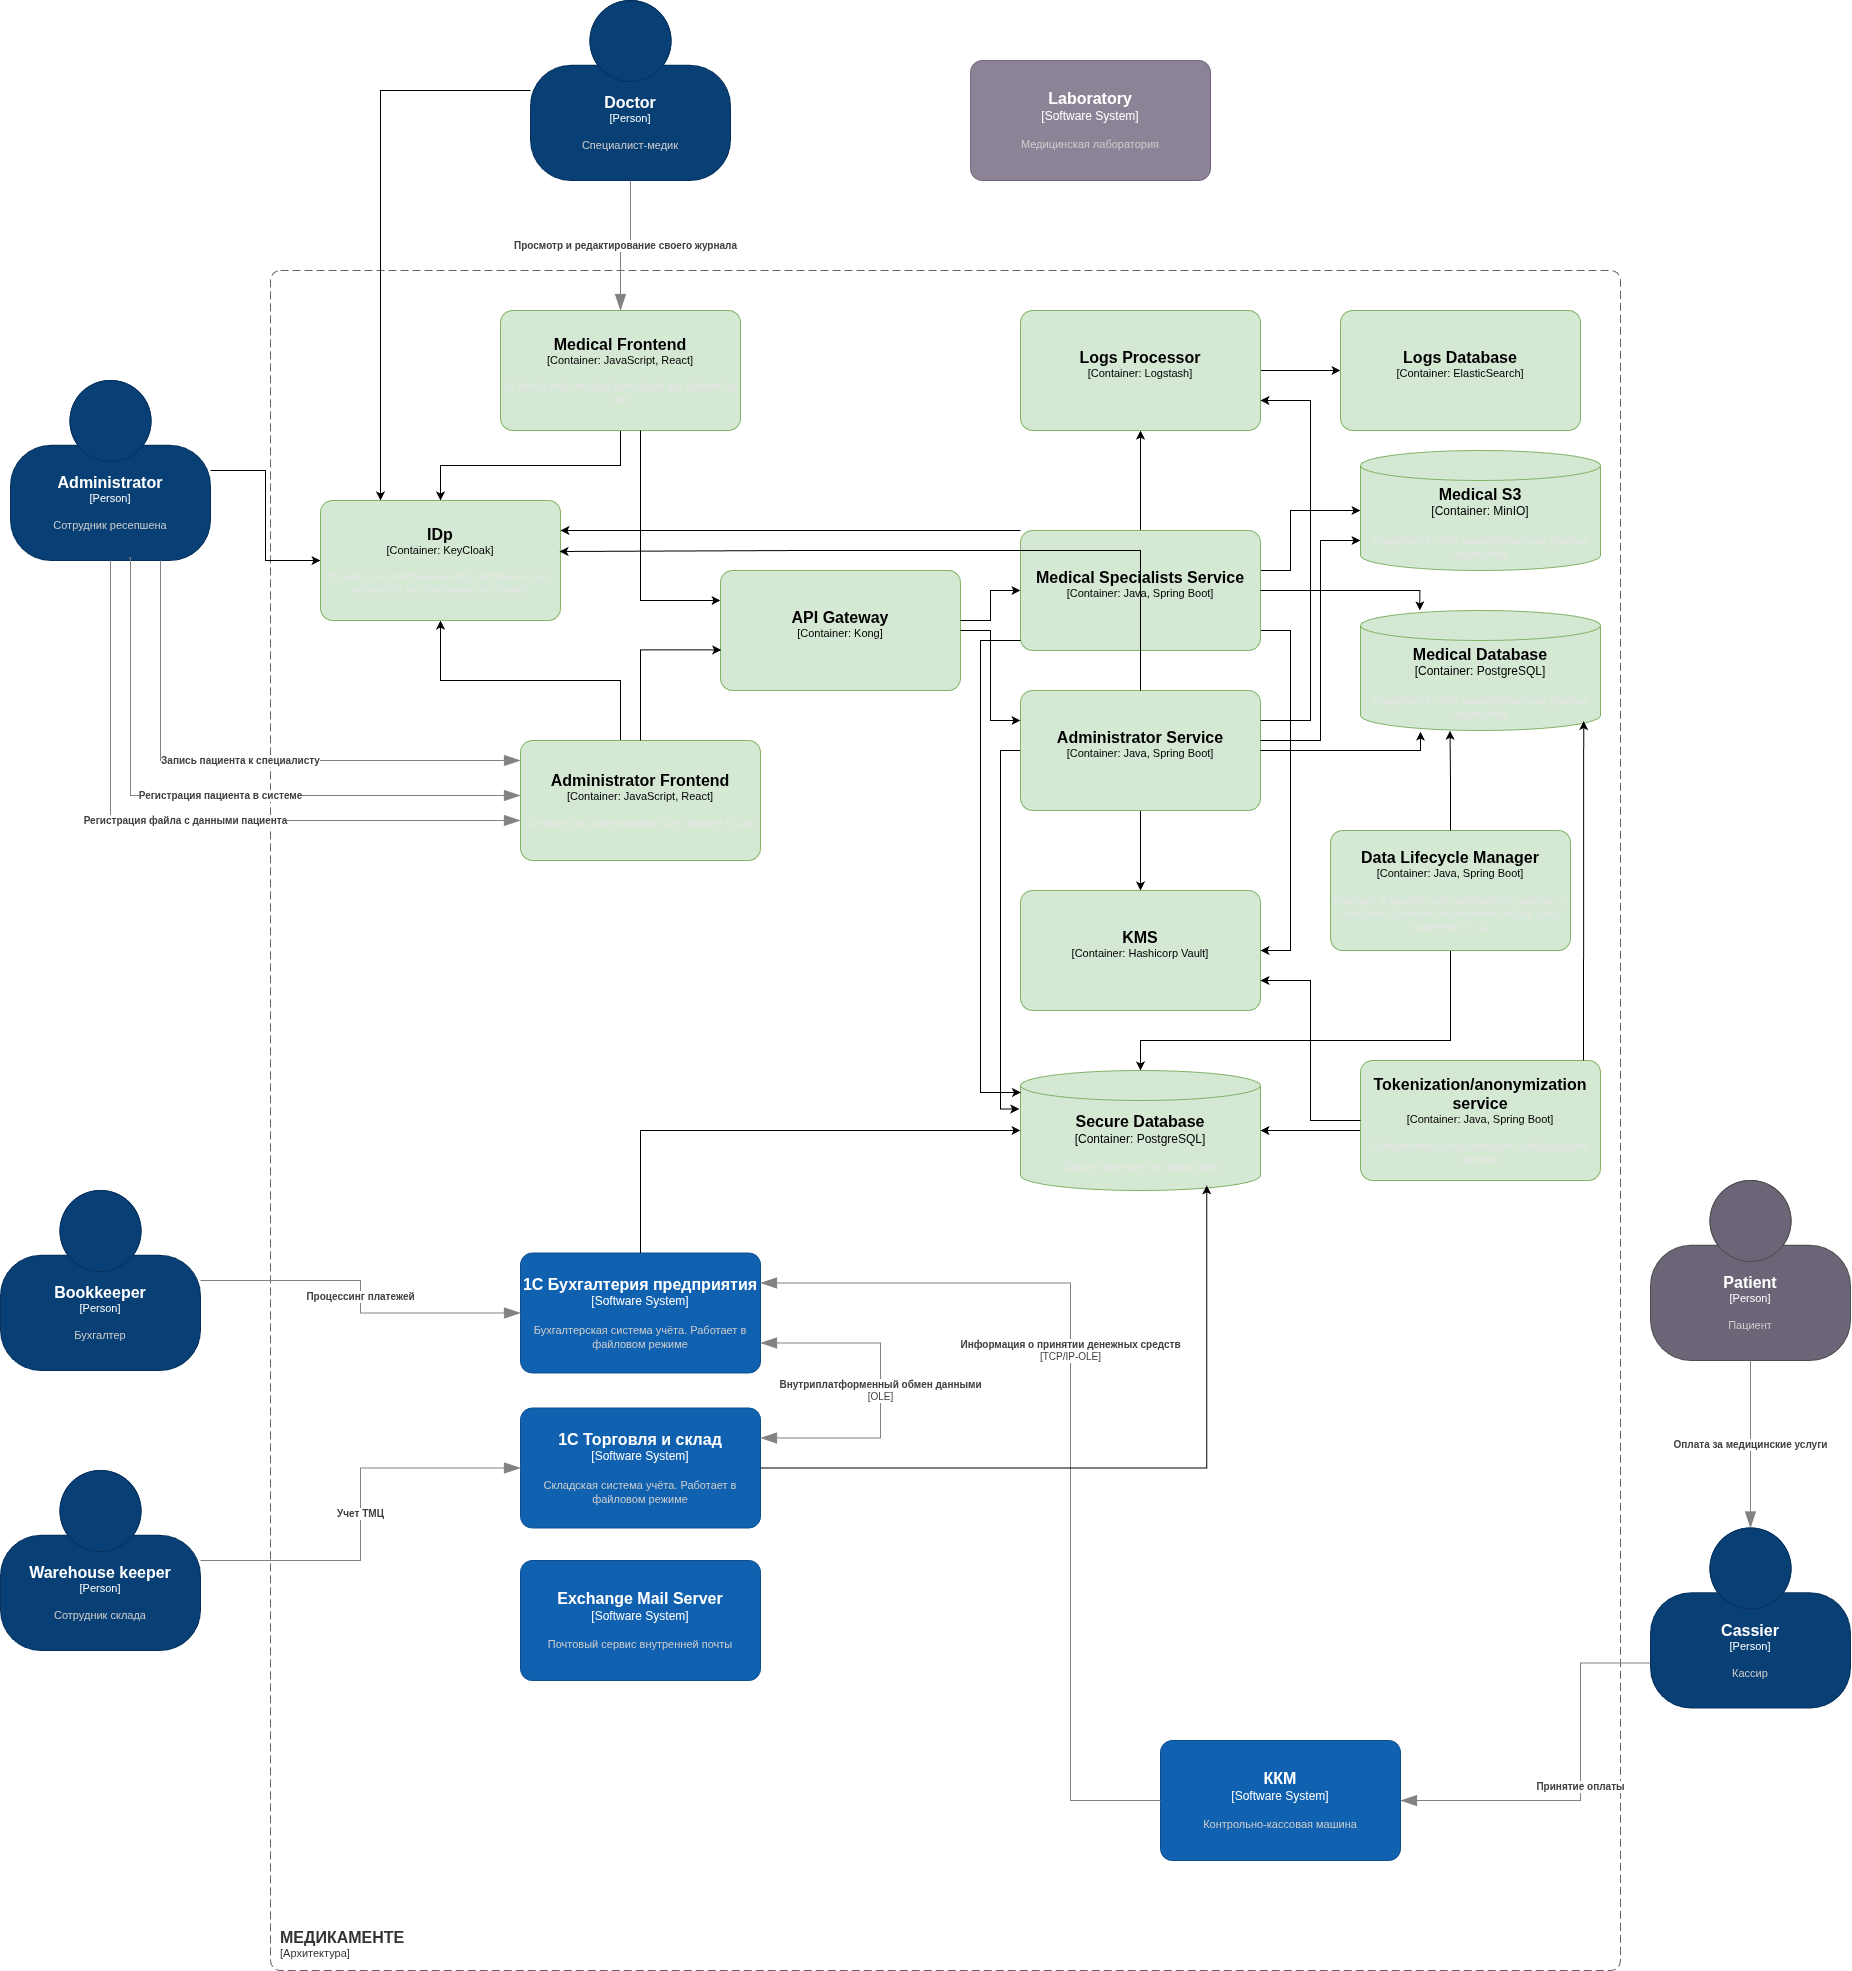
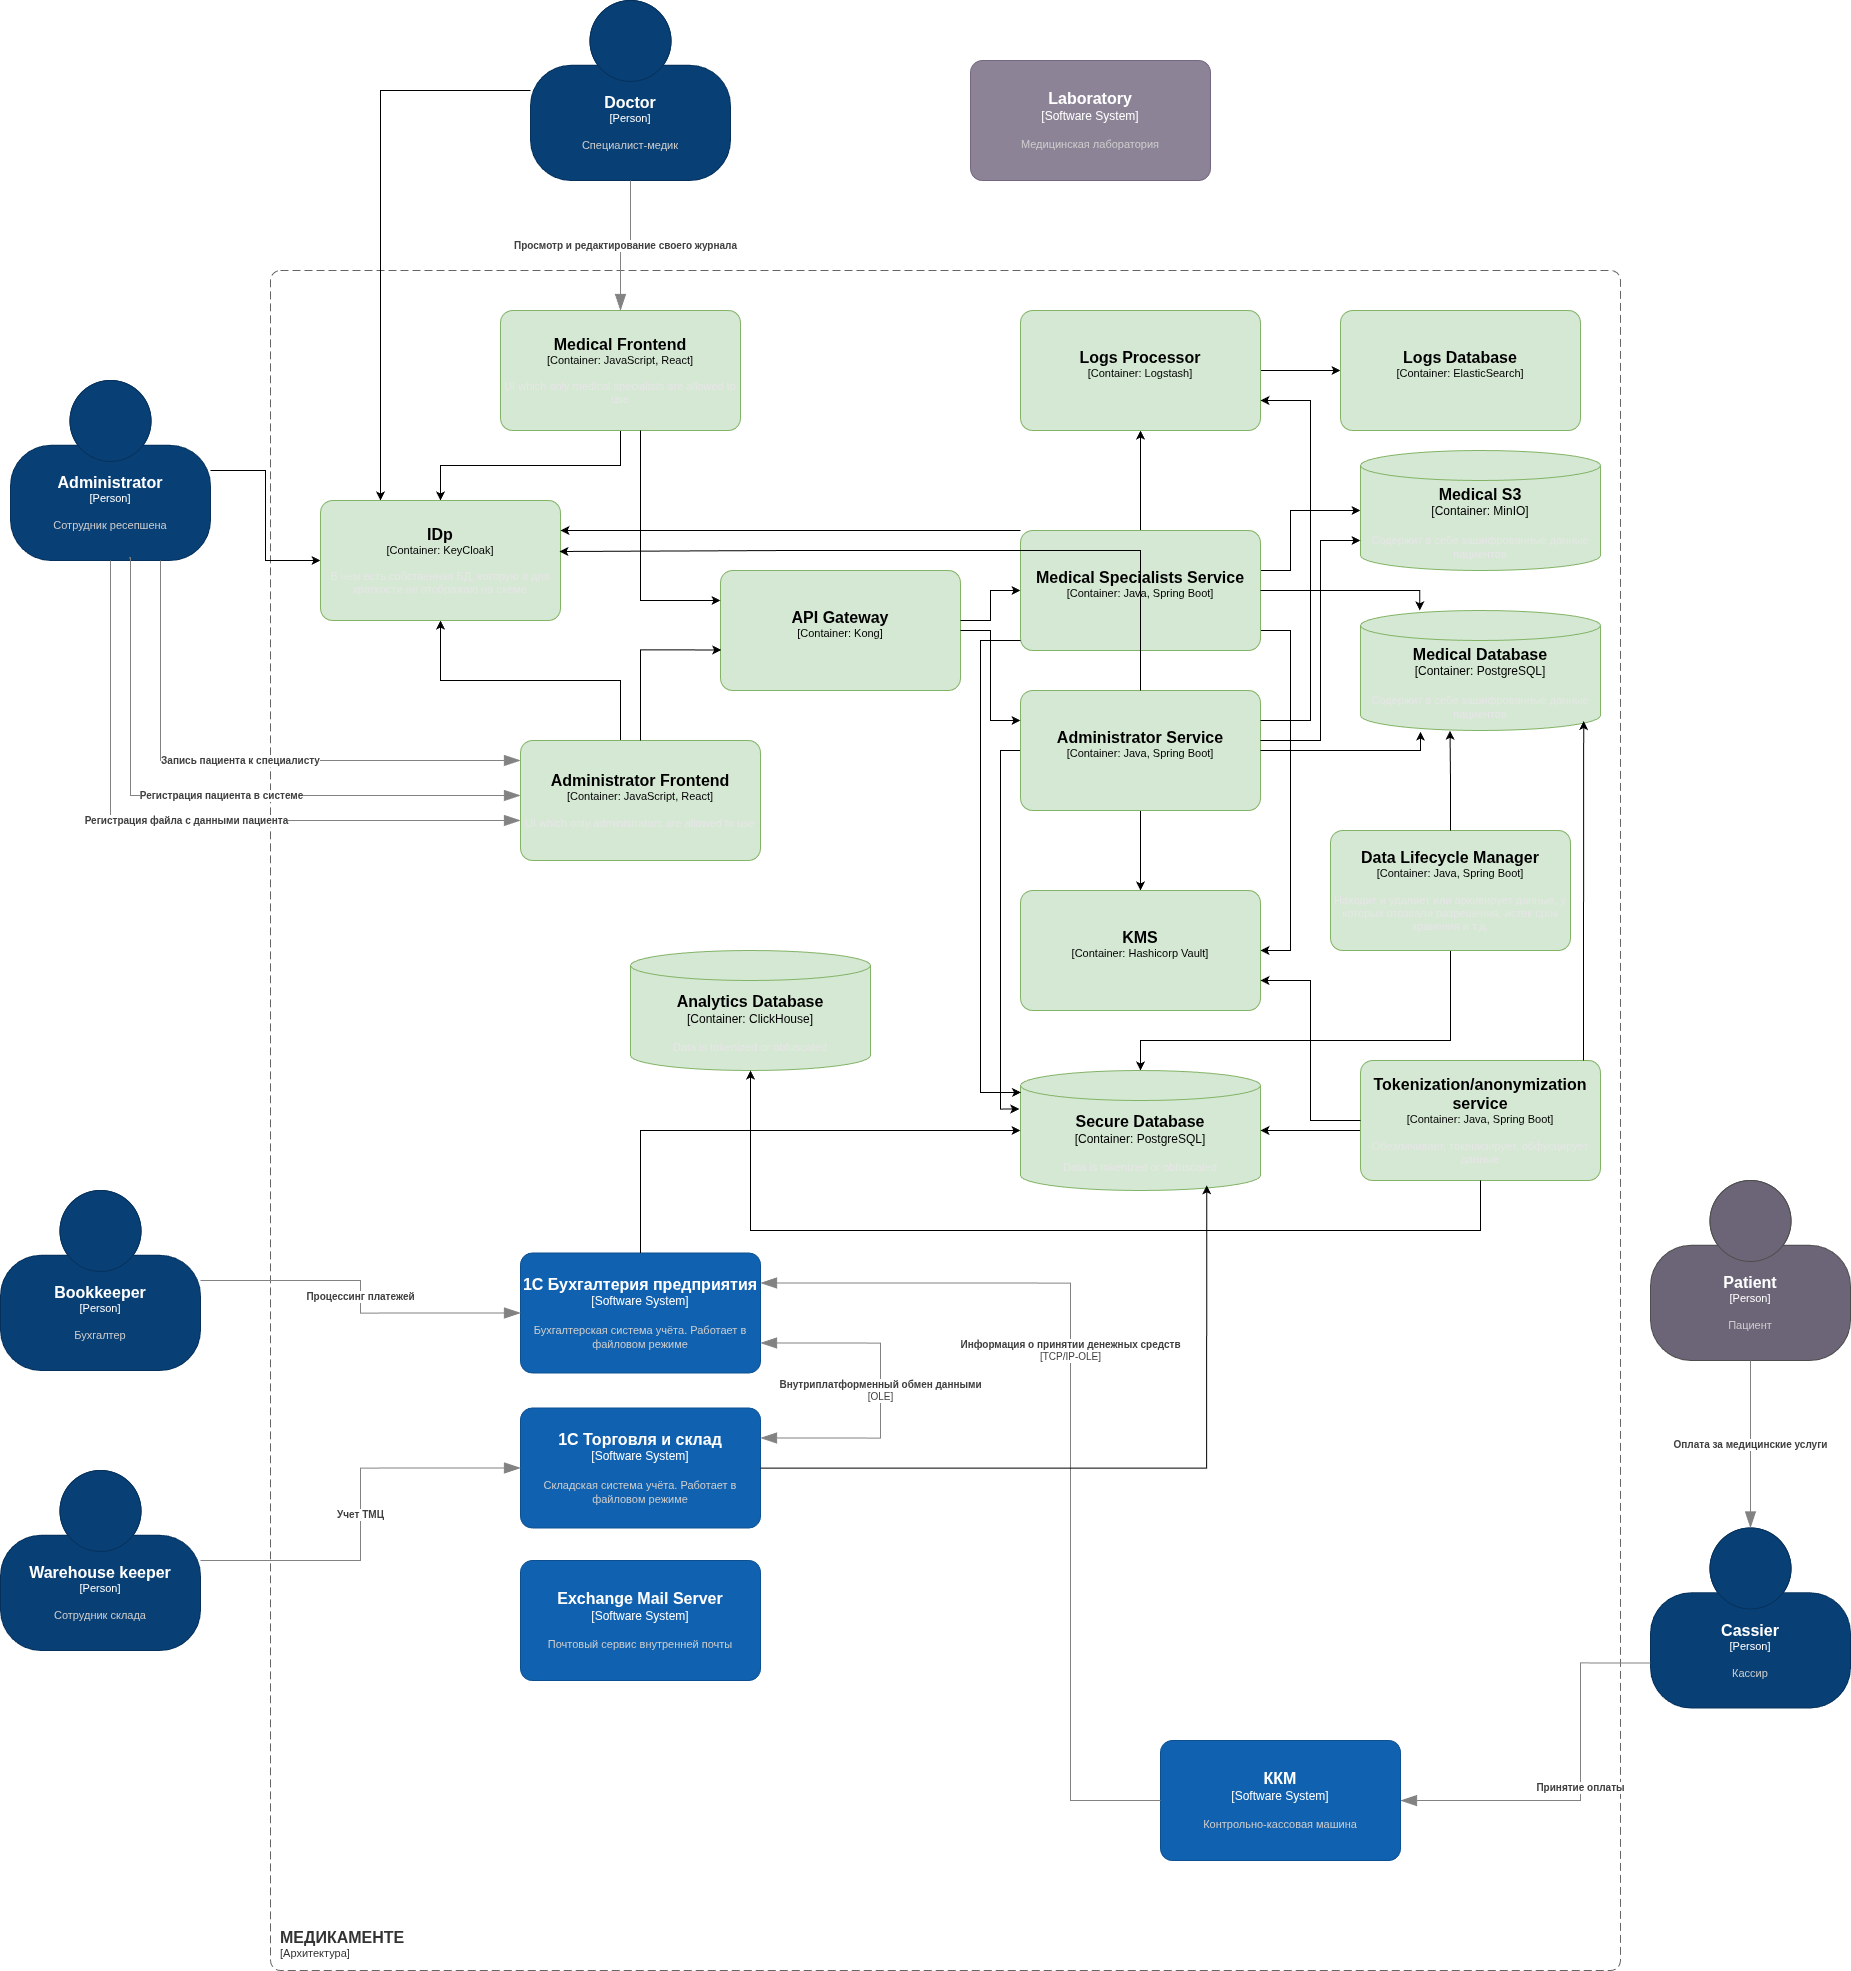
added analytics

diff --git a/Task2/README.md b/Task2/README.md
@@ -60,3 +60,7 @@ JavaScript-код фронтенда может доставляться как 
 Переносом данных по расписанию раз в некоторое время будет заниматься Tokenization/Anonymization Service.
 
 Другие системы, работающие на базе 1С, будут иметь доступ только к этой безопасной БД, содержащей маскированные данные.
+
+### Слой аналитики
+
+Для аналитики обезличенные или маскированные данные будут загружаться в ClickHouse.
